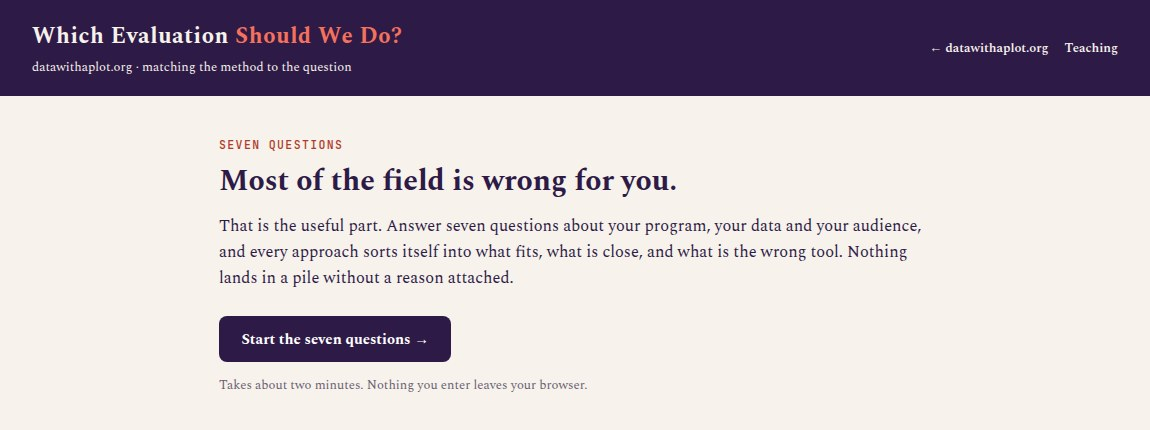
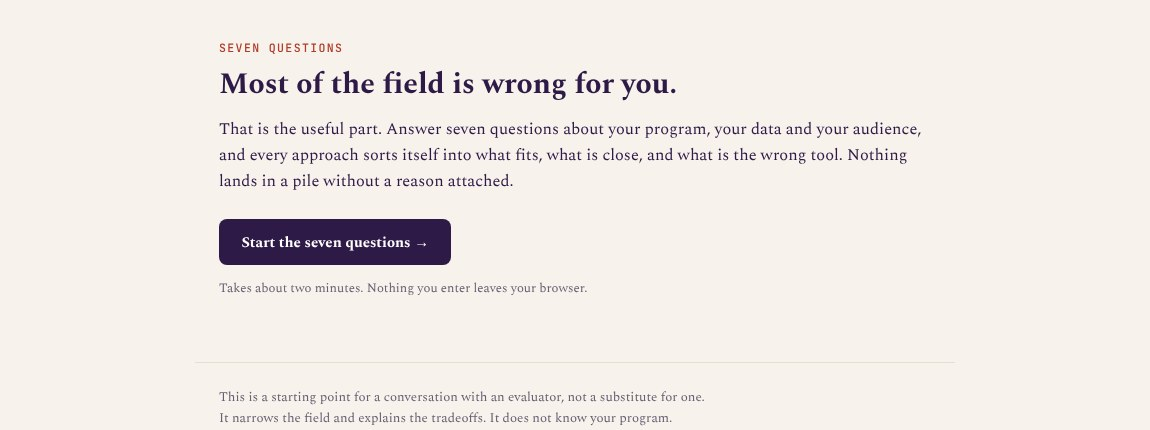
STORY page: light card thumbnails; record the tone rule
The three tool thumbnails are now crops of each intro screen below its
dark header bar, so the elements band is the page's only ink block. The
site guide records the maintainer's rule that humor never reads as
negative toward a legal system or the people in it.

Claude-Session: https://claude.ai/code/session_0191t4cG3m6aQycW3EiNAUvs

diff --git a/CLAUDE.md b/CLAUDE.md
@@ -24,7 +24,14 @@ maintainer made the call; field-literate winks welcome. Maturity Gap's
 narration is the calibration standard; the compassionate release page was
 swept to this register 2026-07-21 and audited to the tightened ration
 2026-08-15 (its dry closers are now exhibits 01 and 06 plus the craft-note
-flourishes). When drafting copy, offer the maintainer
+flourishes). **Humor never at a legal system's expense** (maintainer,
+2026-10-21): she has a sense of humor, but no line may read as negative or
+derogatory toward any court, legal system, legal process, or the people who
+work in them. Dry lines aim at the method, the data, or the reader's own
+assumptions, never at the institutions the site serves. When auditing copy,
+also watch for lines that read as condescending to the visitor ("which parts
+you have not thought through") or dismissive of the public (scare quotes
+around "the public"). When drafting copy, offer the maintainer
 2-3 options and let her pick and tune, and get her pick before the copy ships,
 not after: PRs merge within minutes, so any user-facing string flagged "tune
 later" goes live unreviewed (the picker intro headline did exactly that in
@@ -660,7 +667,12 @@ while **the worksheet keeps the full sentences**; a change to an element's
 meaning touches both, and the band's clause should stay a cut of the
 worksheet's sentence, not a new claim. Below 520px each element lays out as
 a row (letter at left, name and clause beside it), which took the phone band
-from about 1,100px to about 650px. The band's CSS is page-scoped in the qmd. The four planning tools' top bars (evalpicker,
+from about 1,100px to about 650px. The band's CSS is page-scoped in the qmd. **The three card thumbnails are light**
+(2026-10-21, maintainer's call): each is a 1150x430 crop of the tool's intro
+screen taken just below its dark header bar (header bottom at 97px on all
+three), so the band is the page's only ink block; the dark-bar versions made
+four in a row on a phone. Regenerate the same way after any intro-copy change,
+because the intro headline is legible in the crop. The four planning tools' top bars (evalpicker,
 formatpicker, qualpicker, datastory templates) link "STORY" to
 `../story/index.html` instead of Teaching; the three exercises still link
 Teaching. The Projects subtitle names both pages. The STORY-page card copy was
